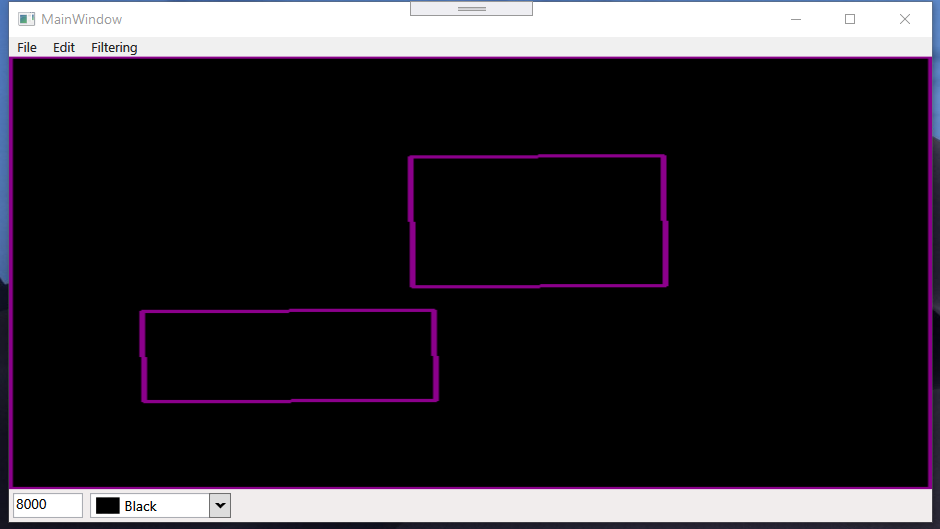
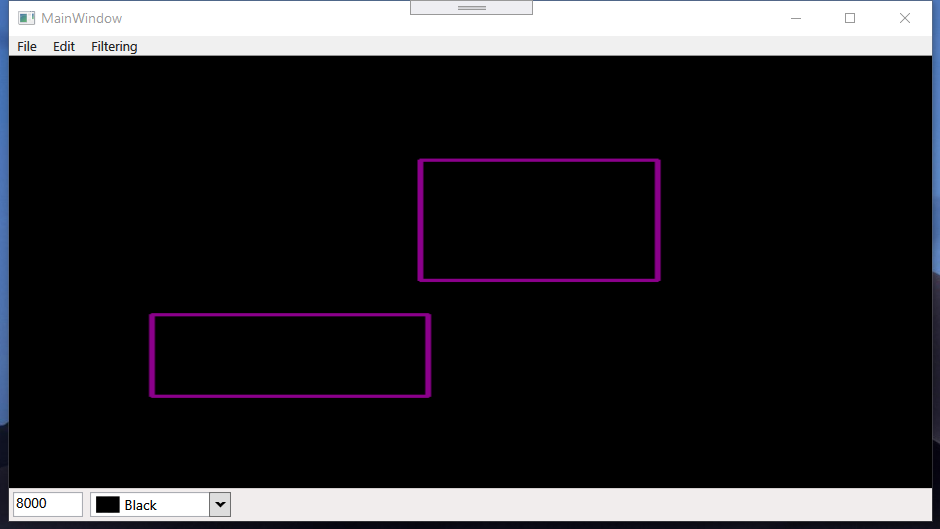
Feat: Color filtering rectangles before contour detection

diff --git a/computer-vision-app/ComputerVisionApp/ComputerVisionApp/MainWindow.xaml.cs b/computer-vision-app/ComputerVisionApp/ComputerVisionApp/MainWindow.xaml.cs
@@ -14,7 +14,9 @@ namespace ComputerVisionApp
         private BitmapImage ImageBitmap;
 
         private double RectangleArea = 250;
-        private long RectangleColor = 0;
+        private long ColorRed = 0;
+        private long ColorGreen = 0;
+        private long ColorBlue = 0;
 
         public MainWindow()
         {
@@ -49,10 +51,9 @@ namespace ComputerVisionApp
             if (ColorPicker.SelectedColor.HasValue)
             {
                 Color C = ColorPicker.SelectedColor.Value;
-                Byte Red = C.R;
-                Byte Green = C.G;
-                Byte Blue = C.B;
-                this.RectangleColor = Convert.ToInt64(Blue * (Math.Pow(256, 0)) + Green * (Math.Pow(256, 1)) + Red * (Math.Pow(256, 2)));
+                ColorRed = Convert.ToInt64(C.R * (Math.Pow(256, 0)));
+                ColorGreen = Convert.ToInt64(C.G * (Math.Pow(256, 0)));
+                ColorBlue = Convert.ToInt64(C.B * (Math.Pow(256, 0)));
             }
 
         }
@@ -83,7 +84,7 @@ namespace ComputerVisionApp
 
         private void DetectRectangles(object sender, RoutedEventArgs e)
         {
-            this.ImageBitmap = EmguHelper.ImageDetectRectangles(this.ImageBitmap, this.RectangleArea, this.RectangleColor);
+            this.ImageBitmap = EmguHelper.ImageDetectRectangles(this.ImageBitmap, this.RectangleArea, this.ColorRed, this.ColorGreen, this.ColorBlue);
             ImageContainer.Source = this.ImageBitmap;
         }
     }

diff --git a/computer-vision-app/ComputerVisionApp/ComputerVisionApp/helpers/EmguHelper.cs b/computer-vision-app/ComputerVisionApp/ComputerVisionApp/helpers/EmguHelper.cs
@@ -91,10 +91,15 @@ namespace ComputerVisionApp
             return Bitmap2BitmapImage(returnImage.Bitmap);
         }
 
-        public static BitmapImage ImageDetectRectangles(BitmapImage Image, double area, long color)
+        public static BitmapImage ImageDetectRectangles(BitmapImage Image, double area, long colorRed, long colorGreen, long colorBlue)
         {
             Image<Bgr, Byte> tempImage = new Image<Bgr, Byte>(BitmapImage2Bitmap(Image));
-            Image<Gray, byte> bwImage = tempImage.Convert<Gray, byte>().ThresholdBinary(new Gray(100), new Gray(255));
+
+            #region color filtering
+            Image<Bgr, Byte> coloredImage = tempImage.PyrDown().PyrUp();
+            coloredImage._SmoothGaussian(3);
+            Image<Gray, Byte> bwImage = coloredImage.InRange(new Bgr(colorBlue, colorGreen, colorRed), new Bgr(colorBlue, colorGreen, colorRed));
+            #endregion
 
             List<RotatedRect> rectangleList = new List<RotatedRect>(); //a box is a rotated rectangle
 
